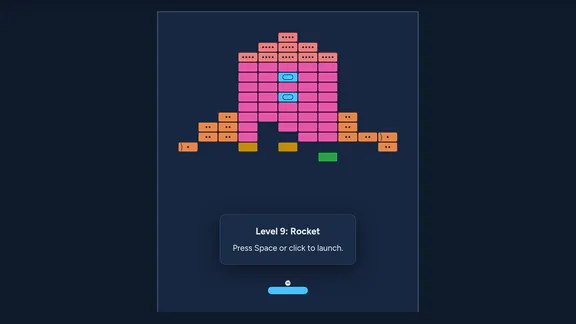
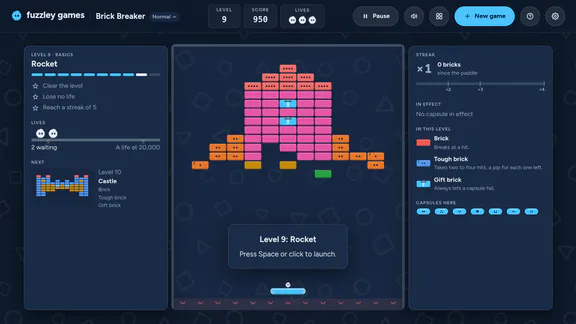
docs(brick-breaker): take the site's screenshots again on the uplift's look, the thumbnail the whole page
The field and the panels beside it reach nearly across the page, so a crop
of the thumbnail's shape around the field cut through both panels, and one
around the panels too took in part of the game bar. The uplift's plan keeps
the screenshot it showed of the game before, as before.webp.

diff --git a/frontend/games/brick-breaker/AGENTS.md b/frontend/games/brick-breaker/AGENTS.md
@@ -1126,14 +1126,13 @@ workspace's with the others'.
   with three bricks of its body's foot, three flames and a brick of each
   fin broken, taken up and gone on with, so the ball waits on the paddle
   under the card that says how to launch it, at 1280 × 720 and 2× on
-  Midnight blue, written to
-  `public/docs/screenshots/brick-breaker/` as the site's `preview.webp`
-  (2560 × 1440), which `index.html` names as the link preview, and
-  `thumb.webp` (576 × 324, the field) by `@fz/dev/screenshots`; `--url`
-  names another server, an http or https address, and `--chrome <path>` or
-  `CHROME_PATH` picks the browser. `--help` prints its options; an option it
-  can't read exits with 2, saying why, and a server that doesn't answer with
-  1, both before Chrome starts).
+  Midnight blue, written to `public/docs/screenshots/brick-breaker/` as the
+  site's `preview.webp` (2560 × 1440), which `index.html` names as the link
+  preview, and `thumb.webp` (576 × 324), each the whole page, by
+  `@fz/dev/screenshots`; `--url` names another server, an http or https
+  address, and `--chrome <path>` or `CHROME_PATH` picks the browser.
+  `--help` prints its options; an option it can't read exits with 2, saying
+  why, and a server that doesn't answer with 1, both before Chrome starts).
 
 ## Tests
 

diff --git a/docs/brick-breaker-uplift/plan.md b/docs/brick-breaker-uplift/plan.md
@@ -45,6 +45,8 @@ Everything made for the plan is in this folder, `docs/brick-breaker-uplift/`:
   [`friends.svg`](mocks/friends.svg) and
   [`machines.svg`](mocks/machines.svg). `mocks/make-mocks.mjs` draws them
   again from `levels/` and the art.
+- **[`before.webp`](before.webp),** the site's screenshot of the game as
+  the plan found it, which "The game today" shows.
 
 ## What was asked, and where it is answered
 
@@ -61,7 +63,7 @@ Everything made for the plan is in this folder, `docs/brick-breaker-uplift/`:
 
 ## The game today
 
-![Brick Breaker as it is](../../frontend/games/brick-breaker/public/docs/screenshots/brick-breaker/preview.webp)
+![Brick Breaker as it is](before.webp)
 
 - **A field of 26 by 30 units,** 13 bricks across and up to 16 rows, the
   paddle near its foot. A tall phone gets a field up to 45 units tall, the
